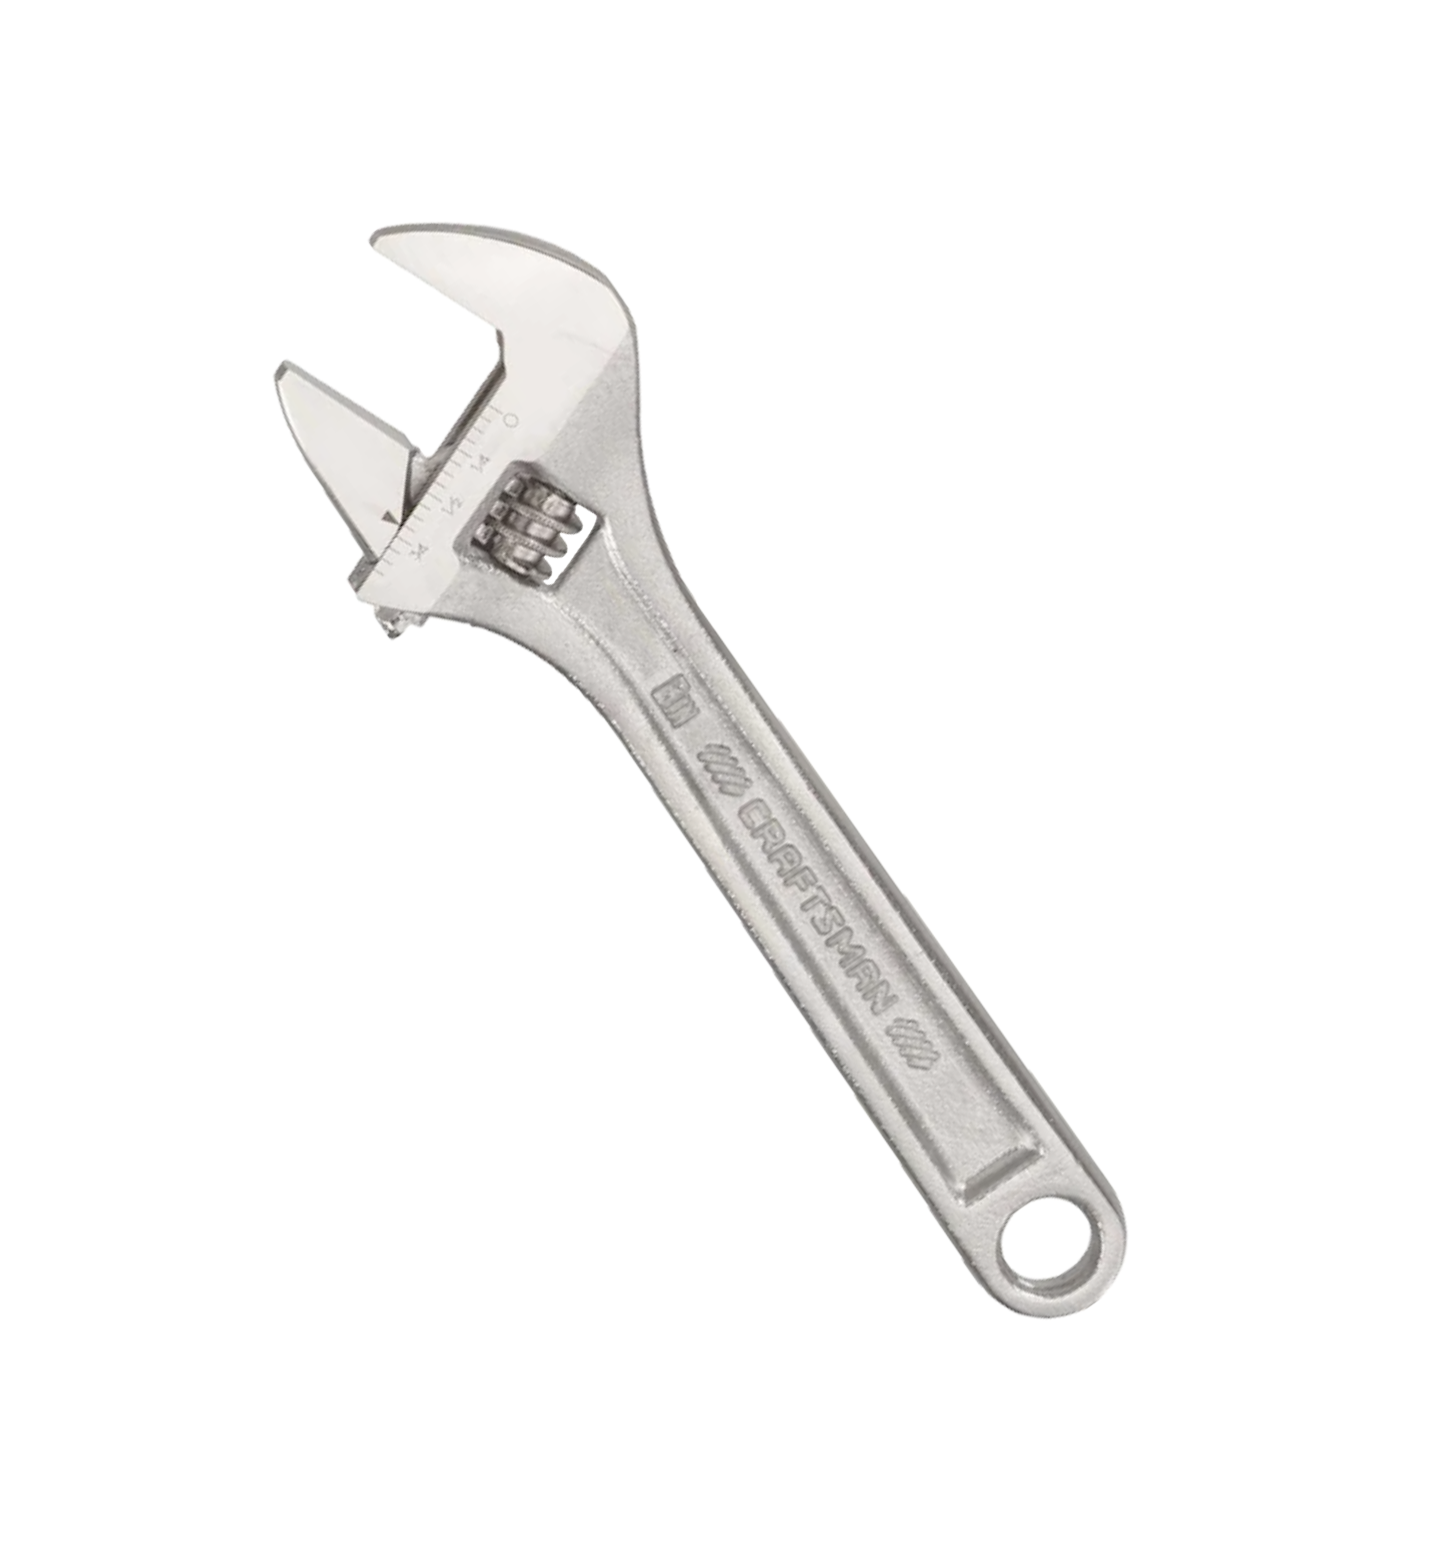
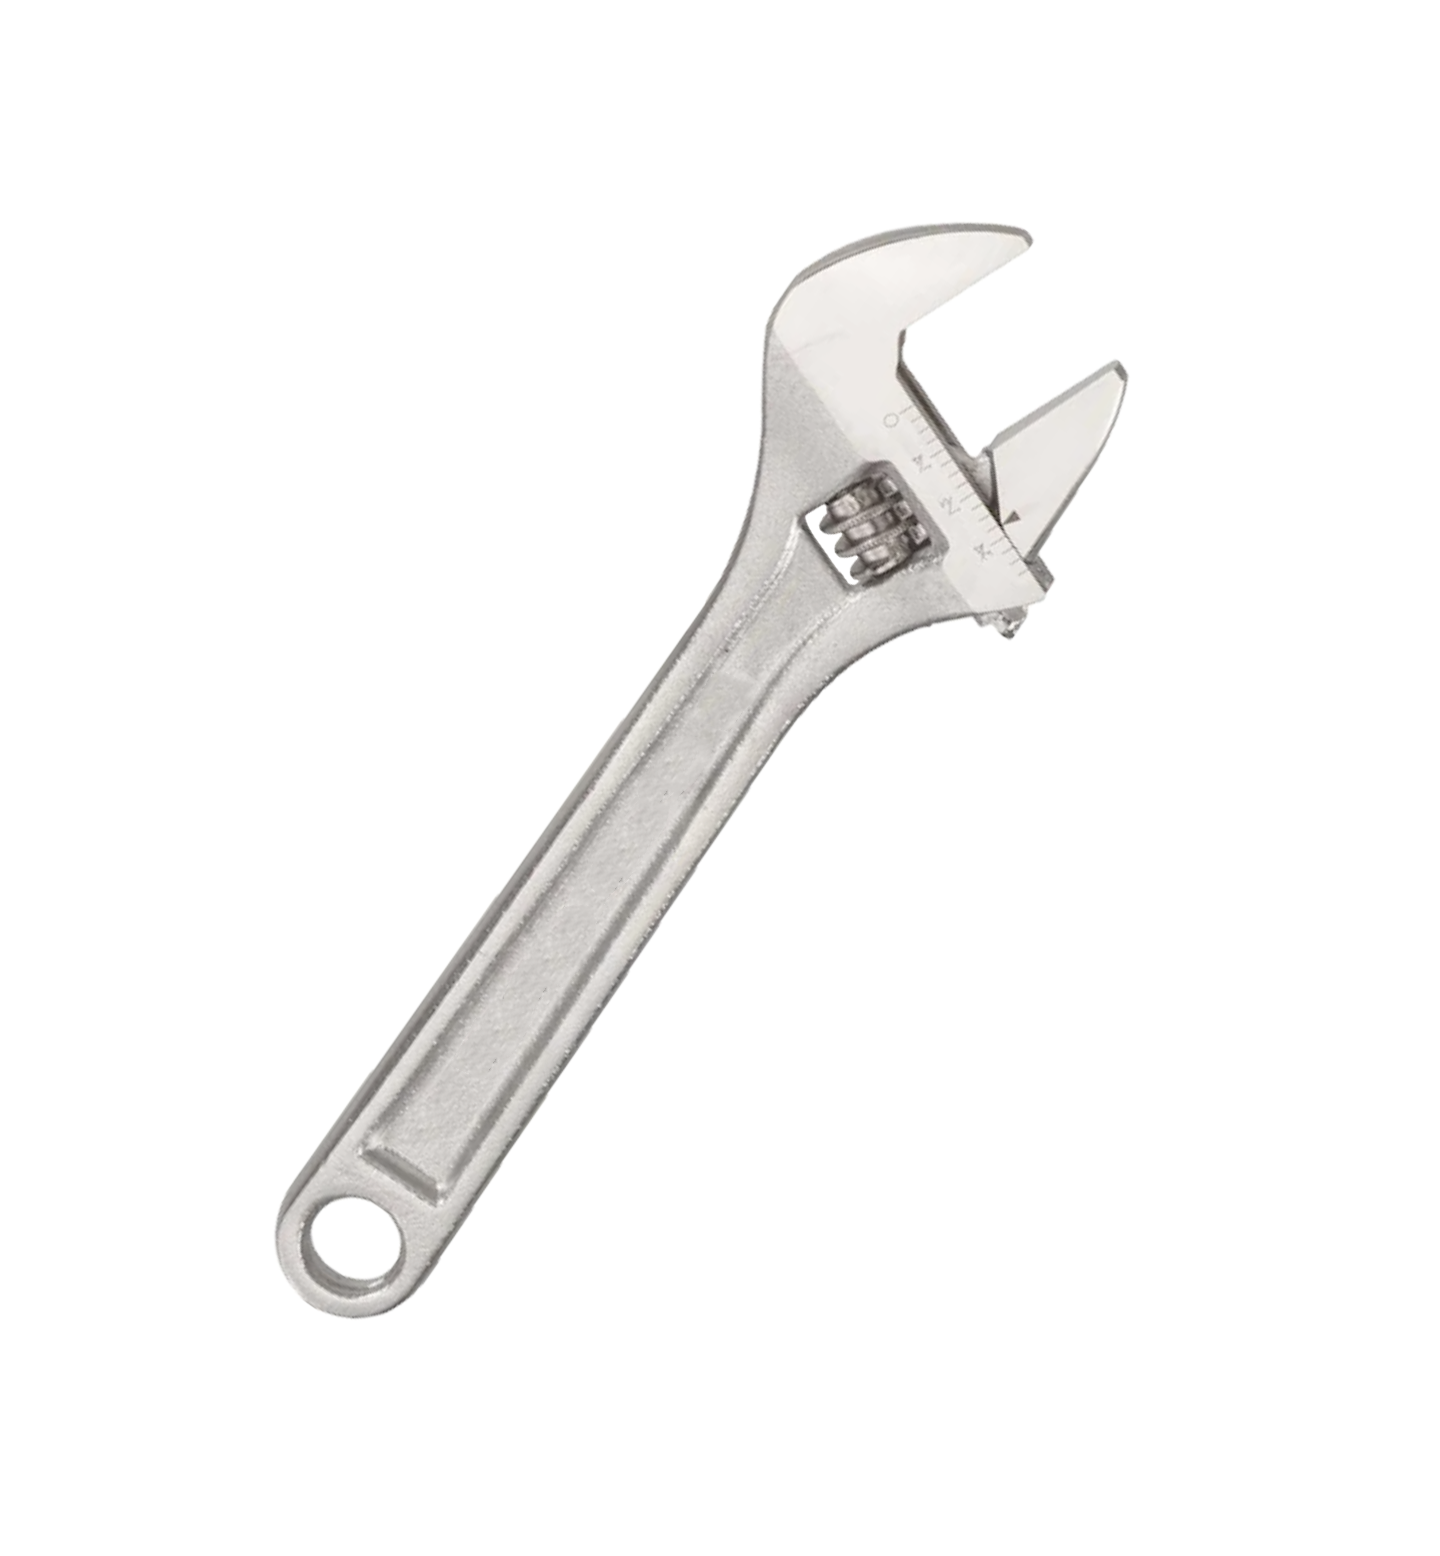
finallll

Changed region(s): [[0.1875, 0.1234, 0.7812, 0.8638], [0.3125, 0.1851, 0.3438, 0.2159]]

diff --git a/P1/assets/js/script.js b/P1/assets/js/script.js
@@ -24,170 +24,170 @@ $(document).ready(function(){
             
         // the keycode for 'a' is 97
         if ( e.which == 97 ) {
-            $('html, body').animate({scrollLeft: $('#a').position().left}, 500);
+            $('html, body').animate({scrollLeft: $('#a').position().left}, 900);
         }
 
          if ( e.which == 98 ) {
-            $('html, body').animate({scrollLeft: $('#b').position().left}, 500);
+            $('html, body').animate({scrollLeft: $('#b').position().left}, 900);
         }
 
         if ( e.which == 113 ) {
-            $('html, body').animate({scrollLeft: $('#q').position().left}, 500);
+            $('html, body').animate({scrollLeft: $('#q').position().left}, 900);
         }
 
          if ( e.which == 119 ) {
-            $('html, body').animate({scrollLeft: $('#w').position().left}, 500);
+            $('html, body').animate({scrollLeft: $('#w').position().left}, 900);
         }
 
         if ( e.which == 101 ) {
-            $('html, body').animate({scrollLeft: $('#e').position().left}, 500);
+            $('html, body').animate({scrollLeft: $('#e').position().left}, 900);
         }
 
          if ( e.which == 114 ) {
-            $('html, body').animate({scrollLeft: $('#r').position().left}, 500);
+            $('html, body').animate({scrollLeft: $('#r').position().left}, 900);
         }
 
         if ( e.which == 116 ) {
-            $('html, body').animate({scrollLeft: $('#t').position().left}, 500);
+            $('html, body').animate({scrollLeft: $('#t').position().left}, 900);
         }
 
          if ( e.which == 121 ) {
-            $('html, body').animate({scrollLeft: $('#y').position().left}, 500);
+            $('html, body').animate({scrollLeft: $('#y').position().left}, 900);
         }
 
         if ( e.which == 117 ) {
-            $('html, body').animate({scrollLeft: $('#u').position().left}, 500);
+            $('html, body').animate({scrollLeft: $('#u').position().left}, 900);
         }
 
          if ( e.which == 105 ) {
-            $('html, body').animate({scrollLeft: $('#i').position().left}, 500);
+            $('html, body').animate({scrollLeft: $('#i').position().left}, 900);
         }
 
          if ( e.which == 111 ) {
-            $('html, body').animate({scrollLeft: $('#o').position().left}, 500);
+            $('html, body').animate({scrollLeft: $('#o').position().left}, 900);
         }
 
         if ( e.which == 112 ) {
-            $('html, body').animate({scrollLeft: $('#p').position().left}, 500);
+            $('html, body').animate({scrollLeft: $('#p').position().left}, 900);
         }
 
          if ( e.which == 115 ) {
-            $('html, body').animate({scrollLeft: $('#s').position().left}, 500);
+            $('html, body').animate({scrollLeft: $('#s').position().left}, 900);
         }
 
         if ( e.which == 100 ) {
-            $('html, body').animate({scrollLeft: $('#d').position().left}, 500);
+            $('html, body').animate({scrollLeft: $('#d').position().left}, 900);
         }
 
          if ( e.which == 102 ) {
-            $('html, body').animate({scrollLeft: $('#f').position().left}, 500);
+            $('html, body').animate({scrollLeft: $('#f').position().left}, 900);
         }
 
         if ( e.which == 103 ) {
-            $('html, body').animate({scrollLeft: $('#g').position().left}, 500);
+            $('html, body').animate({scrollLeft: $('#g').position().left}, 900);
         }
 
          if ( e.which == 104 ) {
-            $('html, body').animate({scrollLeft: $('#h').position().left}, 500);
+            $('html, body').animate({scrollLeft: $('#h').position().left}, 900);
         }
 
         if ( e.which == 106 ) {
-            $('html, body').animate({scrollLeft: $('#j').position().left}, 500);
+            $('html, body').animate({scrollLeft: $('#j').position().left}, 900);
         }
 
          if ( e.which == 107 ) {
-            $('html, body').animate({scrollLeft: $('#k').position().left}, 500);
+            $('html, body').animate({scrollLeft: $('#k').position().left}, 900);
         }
 
          if ( e.which == 108 ) {
-            $('html, body').animate({scrollLeft: $('#l').position().left}, 500);
+            $('html, body').animate({scrollLeft: $('#l').position().left}, 900);
         }
 
         if ( e.which == 122 ) {
-            $('html, body').animate({scrollLeft: $('#z').position().left}, 500);
+            $('html, body').animate({scrollLeft: $('#z').position().left}, 900);
         }
 
         if ( e.which == 120 ) {
-            $('html, body').animate({scrollLeft: $('#x').position().left}, 500);
+            $('html, body').animate({scrollLeft: $('#x').position().left}, 900);
         }
 
          if ( e.which == 99 ) {
-            $('html, body').animate({scrollLeft: $('#c').position().left}, 500);
+            $('html, body').animate({scrollLeft: $('#c').position().left}, 900);
         }
 
          if ( e.which == 118 ) {
-            $('html, body').animate({scrollLeft: $('#v').position().left}, 500);
+            $('html, body').animate({scrollLeft: $('#v').position().left}, 900);
         }
 
          if ( e.which == 110 ) {
-            $('html, body').animate({scrollLeft: $('#n').position().left}, 500);
+            $('html, body').animate({scrollLeft: $('#n').position().left}, 900);
         }
 
         if ( e.which == 109 ) {
-            $('html, body').animate({scrollLeft: $('#m').position().left}, 500);
+            $('html, body').animate({scrollLeft: $('#m').position().left}, 900);
         }
 
         if ( e.which == 49 ) {
-            $('html, body').animate({scrollLeft: $('#one').position().left}, 1000);
+            $('html, body').animate({scrollLeft: $('#one').position().left}, 900);
         }
 
          if ( e.which == 50 ) {
-            $('html, body').animate({scrollLeft: $('#two').position().left}, 1000);
+            $('html, body').animate({scrollLeft: $('#two').position().left}, 900);
         }
 
          if ( e.which == 51 ) {
-            $('html, body').animate({scrollLeft: $('#three').position().left}, 1000);
+            $('html, body').animate({scrollLeft: $('#three').position().left}, 900);
         }
 
          if ( e.which == 52 ) {
-            $('html, body').animate({scrollLeft: $('#four').position().left}, 10600);
+            $('html, body').animate({scrollLeft: $('#four').position().left}, 900);
         }
 
         if ( e.which == 53 ) {
-            $('html, body').animate({scrollLeft: $('#five').position().left}, 500);
+            $('html, body').animate({scrollLeft: $('#five').position().left}, 900);
         }
 
          if ( e.which == 54 ) {
-            $('html, body').animate({scrollLeft: $('#six').position().left}, 500);
+            $('html, body').animate({scrollLeft: $('#six').position().left}, 900);
         }
 
-                 if ( e.which == 55 ) {
-            $('html, body').animate({scrollLeft: $('#seven').position().left}, 500);
+         if ( e.which == 55 ) {
+            $('html, body').animate({scrollLeft: $('#seven').position().left}, 900);
         }
 
          if ( e.which == 56 ) {
-            $('html, body').animate({scrollLeft: $('#eight').position().left}, 500);
+            $('html, body').animate({scrollLeft: $('#eight').position().left}, 900);
         }
 
          if ( e.which == 57 ) {
-            $('html, body').animate({scrollLeft: $('#nine').position().left}, 500);
+            $('html, body').animate({scrollLeft: $('#nine').position().left}, 900);
         }
 
          if ( e.which == 48 ) {
-            $('html, body').animate({scrollLeft: $('#zero').position().left}, 500);
+            $('html, body').animate({scrollLeft: $('#zero').position().left}, 900);
         }
 
          if ( e.which == 44 ) {
-            $('html, body').animate({scrollLeft: $('#comma').position().left}, 500);
+            $('html, body').animate({scrollLeft: $('#comma').position().left}, 900);
         }
 
          if ( e.which == 34 ) {
-            $('html, body').animate({scrollLeft: $('#qml').position().left}, 500);
+            $('html, body').animate({scrollLeft: $('#qml').position().left}, 900);
         }
 
                  if ( e.which == 34 ) {
-            $('html, body').animate({scrollLeft: $('#qmr').position().left}, 500);
+            $('html, body').animate({scrollLeft: $('#qmr').position().left}, 900);
         }
 
          if ( e.which == 33 ) {
-            $('html, body').animate({scrollLeft: $('#em').position().left}, 500);
+            $('html, body').animate({scrollLeft: $('#em').position().left}, 900);
         }
          if ( e.which == 46 ) {
-            $('html, body').animate({scrollLeft: $('#period').position().left}, 500);
+            $('html, body').animate({scrollLeft: $('#period').position().left}, 900);
         }
 
          if ( e.which == 63 ) {
-            $('html, body').animate({scrollLeft: $('#qm').position().left}, 500);
+            $('html, body').animate({scrollLeft: $('#qm').position().left}, 900);
         }
 
 

diff --git a/P1/assets/css/main.css b/P1/assets/css/main.css
@@ -1,6 +1,10 @@
 body{
   background-color: #e6e5e3;
-  cursor:url('../wrench2.png'), auto;
+}
+
+
+#cursor{
+    cursor:move;, auto;
 }
 
 .animation-1{
@@ -40,14 +44,58 @@ body{
 
 
 /*
-  letter colors
+  RGB colors
   #b32d00
   #00b8e6
   #ffcc00
 */
 
 
-/*home page*/
+/*display page*/
+
+.wrench{
+    position: absolute;
+  left:520px;
+  top:-360px;
+    transform: scale(0.35,0.35);
+}
+
+.wrench:hover img {
+  transition: 1s;
+  -webkit-transition: 0.70s;
+  -moz-transition: 0.70s;
+  -ms-transition: 0.70s;
+  -o-transition: 0.70s;
+  -webkit-transform: rotate(18deg);
+  -moz-transform: rotate(18deg);
+  -o-transform: rotate(18deg);
+  -ms-transform: rotate(18deg);
+  transform: rotate(18deg);
+}
+
+.wrench2{
+    position: absolute;
+  left:-325px;
+  top:0px;
+    transform: scale(0.5,0.5) rotate(280deg);
+}
+
+.wrench2:hover img {
+  transition: 1s;
+  -webkit-transition: 0.70s;
+  -moz-transition: 0.70s;
+  -ms-transition: 0.70s;
+  -o-transition: 0.70s;
+  -webkit-transform: rotate(18deg);
+  -moz-transform: rotate(18deg);
+  -o-transform: rotate(18deg);
+  -ms-transform: rotate(18deg);
+  transform: rotate(18deg);
+}
+
+
+
+
 
 .letterss {
   position: relative;
@@ -7652,7 +7700,5 @@ left: 1175px;
   border: 1px ;
   transform: scale(0.5,0.5);
 }
-
-
 
 

diff --git a/P1/display.html b/P1/display.html
@@ -154,6 +154,14 @@
 </a></p>
 
 
+<div class="wrench">
+    <img src="wrench.png" alt="wrench">
+</div>
+
+<div class="wrench2">
+    <img src="wrench.png" alt="wrench2">
+</div>
+
 </body>
 
 <div class="cursor"></div>
